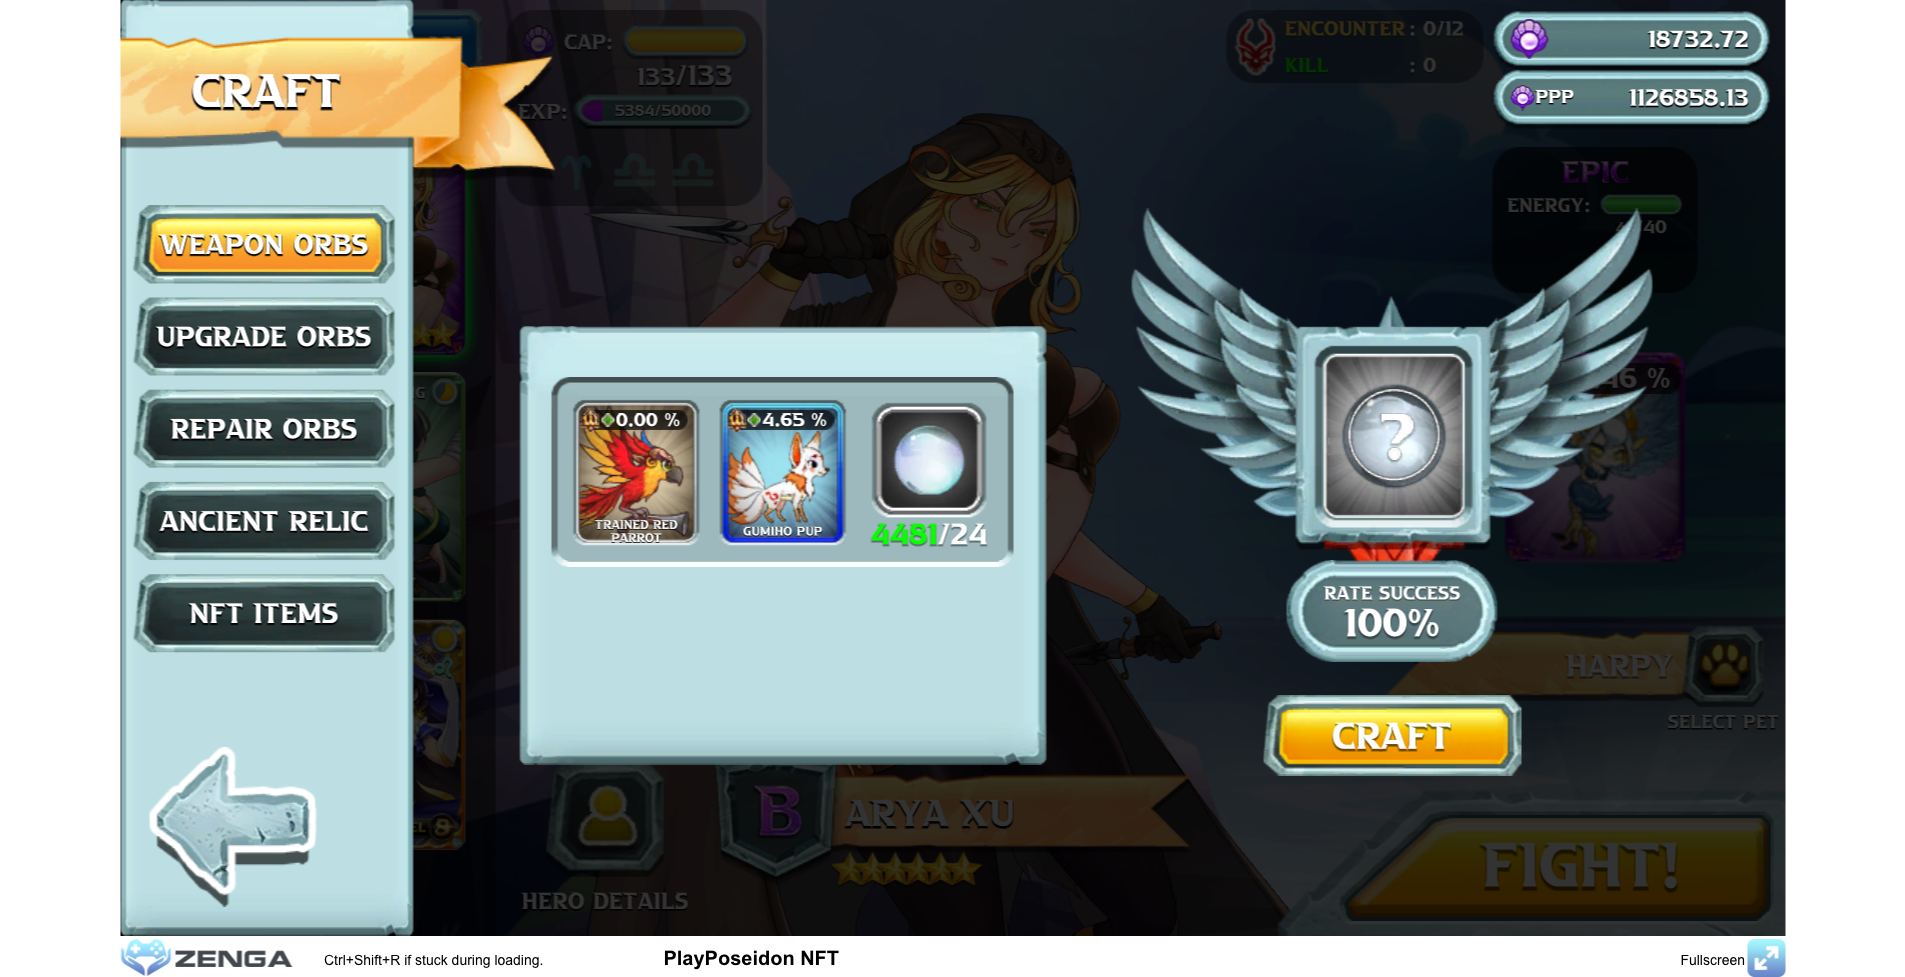
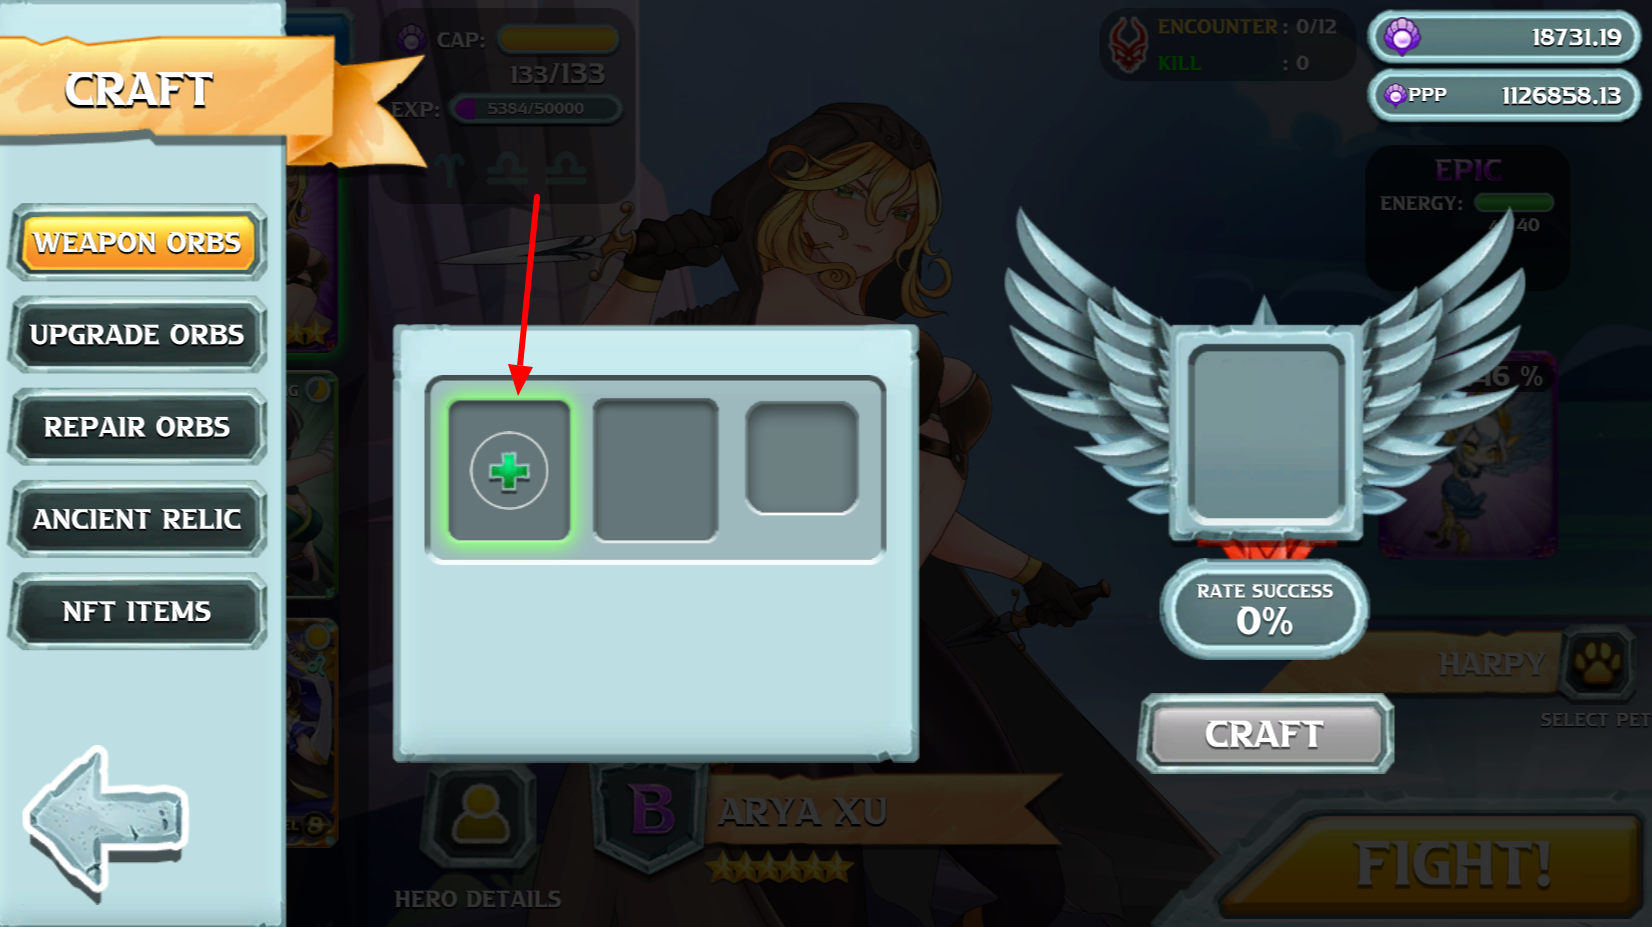
GitBook: [#268] No subject

diff --git a/gameplay-guide/nft-weapon-orbs/orb-upgrade-and-level.md b/gameplay-guide/nft-weapon-orbs/orb-upgrade-and-level.md
@@ -1,0 +1,61 @@
+# 🆙 Orb Upgrade and Level
+
+### 1. NFT Weapon Orb Level
+
+A Weapon Orb after mint start at LV **+0** and can be upgraded to higher LV to further increase it power.
+
+| Weapon Orb Rarity Level                          | Max Level can be upgraded to | Hero Level required to bind |
+| ------------------------------------------------ | ---------------------------- | --------------------------- |
+| **Common**                                       | +6                           | 4                           |
+| <mark style="color:blue;">**Rare**</mark>        | +9                           | 4                           |
+| <mark style="color:purple;">**Epic**</mark>      | +12                          | 4                           |
+| <mark style="color:yellow;">**Legendary**</mark> | +15                          | 7                           |
+| <mark style="color:red;">**Mythical**</mark>     | +18                          | ?                           |
+
+When upgrade to higher LV the Bonus Damage when Active of Orb will be increased and at specific LV the orb will acquired a passive bonus following this table:
+
+| Weapon Orb Level | Bonus Damage when Active | Passive bonuses                                                                                                     | Max Success Chance to next LV                             |
+| ---------------- | ------------------------ | ------------------------------------------------------------------------------------------------------------------- | --------------------------------------------------------- |
+| **Orb+0**        | +0                       |                                                                                                                     | 96%                                                       |
+| **Orb+1**        | +5                       |                                                                                                                     | 96%, Orb LV will be reset to +0 if failed                 |
+| **Orb+2**        | +10                      |                                                                                                                     | 96%, Orb LV will be reset to +0 if failed                 |
+| **Orb+3**        | +15                      | Headshot Critical Attack **LV1**                                                                                    | 96%, Orb LV will be reset to +0 if failed                 |
+| **Orb+4**        | +20                      | Headshot Critical Attack LV1                                                                                        | 96%, Orb LV will be reset to +0 if failed                 |
+| **Orb+5**        | +25                      | Headshot Critical Attack LV1                                                                                        | 96%, Orb LV will be reset to +0 if failed                 |
+| **Orb+6**        | +30                      | <p>Headshot Critical Attack <strong>LV2</strong><br><strong></strong>Gas Consume Reduction <strong>LV1</strong></p> | 96%, Orb LV will be reset to +0 if failed                 |
+| **Orb+7**        | +40                      | <p>Headshot Critical Attack LV2<br><strong></strong>Gas Consume Reduction LV1</p>                                   | 84%, Orb LV will be reset to +0 if failed                 |
+| **Orb+8**        | +50                      | <p>Headshot Critical Attack LV2<br><strong></strong>Gas Consume Reduction LV1</p>                                   | 72%, Orb LV will be reset to +0 if failed                 |
+| **Orb+9**        | +60                      | <p>Headshot Critical Attack <strong>LV3</strong><br><strong></strong>Gas Consume Reduction <strong>LV2</strong></p> | 60%, Orb will be burned if failed unless have Chaos Charm |
+| **Orb+10**       | +75                      | <p>Headshot Critical Attack LV3<br><strong></strong>Gas Consume Reduction LV2</p>                                   | 54%, Orb will be burned if failed unless have Chaos Charm |
+| **Orb+11**       | +90                      | <p>Headshot Critical Attack LV3<br><strong></strong>Gas Consume Reduction LV2</p>                                   | 48%, Orb will be burned if failed unless have Chaos Charm |
+| **Orb+12**       | +110                     | <p>Headshot Critical Attack <strong>LV4</strong><br><strong></strong>Gas Consume Reduction <strong>LV3</strong></p> | 42%, Orb will be burned if failed unless have Chaos Charm |
+| **Orb+13**       | +130                     | <p>Headshot Critical Attack LV4<br><strong></strong>Gas Consume Reduction LV3</p>                                   | 36%, Orb will be burned if failed unless have Chaos Charm |
+| **Orb+14**       | +150                     | <p>Headshot Critical Attack LV4<br><strong></strong>Gas Consume Reduction LV3</p>                                   | 30%, Orb will be burned if failed unless have Chaos Charm |
+| **Orb+15**       | +175                     | <p>Headshot Critical Attack <strong>LV5</strong><br><strong></strong>Gas Consume Reduction <strong>LV4</strong></p> | 27%, Orb will be burned if failed unless have Chaos Charm |
+
+To upgrade an Orb to next Level you will need to prepare some material:
+
+From **Orb+1** to **Orb+4, Orb+5**: \
+\+Lesser Gem of any type for Neutral Orb\
+\+Lesser Gem of the same type for Elemental Orb:\
+Orb of Wind use Diamond,  Orb of Earth use Emerald, Orb of Fire use Ruby, Orb of Water use Sapphire
+
+From **Orb+4, Orb+5 to Orb+9:**\
+****+Greater Gem of any type for Neutral Orb\
+\+Greater Gem of the same type for Elemental Orb\
+\+Similar to Hero Upgrade, upgrade to Orb+7 +8 +9 will cost you two Upgrade Scroll of the same LV&#x20;
+
+From **Orb+9, Orb+10** and above:\
+\+Chaos Gem and two Upgrade Scroll of the same LV
+
+You will need to select one type of Gem and a quantity to be used for the upgrading process, the more number of Gem used the higher the success chance of the upgrade.
+
+### 2. Normal Upgrade vs Quick Upgrade
+
+Similar to Hero, Weapon Orbs also have 2 mechanisms to upgrade it to next LV. The first one is Normal Upgrade and the second one is Quick Upgrade.
+
+**Normal Upgrade** will require the player to farm the EXP bar of the Orb to full before the upgrade. EXP of the Orb can be gained by using it (activate Orb), the more you used during battle the faster the Orb EXP bar will be filled. Once it is full you can then proceed to Normal Upgrade the Weapon Orb to next LV. Upgrading the Orb this way will only cost a tiny amount of **PPP** as upgrade fee regardless of Orb LV (flat fee).
+
+**Quick Upgrade** doesn't require the player to farm the EXP bar of the Orb to full in-order to upgrade it. How-ever the amount of **PPP** upgrade fee for Quick Upgrade is much higher compare to Normal Upgrade. And it is scaled up with the current level of the Orb. This allow player with less time but big budget can using **PPP** (both in-game or on-chain can be used to pay this fee) to quickly upgrade the Orb to the wanted LV.
+
+Both type of Upgrade have the same Gem requirement, Max Success Chance and cost two Upgrade Scroll per LV starting from LV **Orb+7**

diff --git a/gameplay-guide/nft-weapon-orbs/orb-attributes-and-buff.md b/gameplay-guide/nft-weapon-orbs/orb-attributes-and-buff.md
@@ -1,0 +1,39 @@
+# 🔮 Orb Attributes and Buff
+
+### 1. Orb Rarity Level
+
+The higher the Rarity Level of the Orb the better the Orb can boost the power of Hero when equip:
+
+| Weapon Orb Rarity Level                          | Magitek Gas (Max Mana) | Number of Class       | Avg % Base Damage Bonus buff |
+| ------------------------------------------------ | ---------------------- | --------------------- | ---------------------------- |
+| **Common**                                       | 1500                   | 4 Neutral Class Only  | 0-10%                        |
+| <mark style="color:blue;">**Rare**</mark>        | 1500-3999              | 4 Neutral + 4 Element | 5-20%                        |
+| <mark style="color:purple;">**Epic**</mark>      | 4000-5999              | 4 Neutral + 4 Element | 15-30%                       |
+| <mark style="color:yellow;">**Legendary**</mark> | 6000-7999              | 4 Neutral + 4 Element | 25-45%                       |
+| <mark style="color:red;">**Mythical**</mark>     | 8000-9999              | ?                     | 35-55%                       |
+
+{% hint style="info" %}
+**Magitek Gas** (max Mana): Weapon Orb has a gas bar which will be used when the Orb is activated. When Weapon Orb ran out of gas, it became inactive. Gas is slowly refueled by converting Pet exhaust energy of Pet magical attack into magitek gas. (Higher rarity pet will allow it to recover gas faster)&#x20;
+
+**% Base Damage Buff:** this buff work similar to Pet Attribute bonus buff but only affect Hero base damage. This buff will always be in effect regardless of the Orb is in active or inactive state. When mint the NFT Orb this % buff will be exactly equal the sum % buff of the 2 NFT Pets combine
+{% endhint %}
+
+| Orb Rarity                                       | Active Gas Consume/s | Bonus Damage when Active | Max Durability | % Bonus PPP Reward |
+| ------------------------------------------------ | -------------------- | ------------------------ | -------------- | ------------------ |
+| **Common**                                       | 300                  | 0                        | 20\*           | 2%                 |
+| <mark style="color:blue;">**Rare**</mark>        | 350                  | 5                        | 40             | 5%                 |
+| <mark style="color:purple;">**Epic**</mark>      | 450                  | 15                       | 80             | 10%                |
+| <mark style="color:yellow;">**Legendary**</mark> | 600                  | 30                       | 120            | 20%                |
+| <mark style="color:red;">**Mythical**</mark>     | 800                  | 60                       | 200            | 35%                |
+
+{% hint style="info" %}
+**Active Gas Consume/s:** This is the amount of Magitek Gas (Mana) that get deducted every seconds when you active the Orb. If the Hero equipped more than 1 Orb, These attribute will be sum together: **Magitek Gas, Active Gas Consumes/s, Bonus Damage when Active, % Bonus PPP Reward**
+
+**Bonus Damage when Active**: This amount increases Hero base damage when the orb is Activated. This bonus base damage can be further increased by upgrading Orb to higher Level(see Orb Upgrade). This amount will not be increased by any Attribute Bonus Buff
+
+**Durability**: For every match this Weapon Orb is used. An amount of durability points will be deducted. 1 point of durability is deducted when you farm 10% of Hero daily farm-cap. That means if you fully farm your hero daily farm-cap, 10 points will be deducted. After that if you continue to use the Hero (equipped with Weapon Orb) your Orb durability will not be deducted since there is no farm-cap left. Once the Orb durability point becomes 0, it can still be used but the Magitek Gas (max Mana) of this orb will be zero. You can still Activate Orbs if the hero is equipped with at least 1 orb still have Durability. And the orb will not give any bonus PPP reward until the player repairs it. Also all passive bonuses coming from Orb will not be in effect, Bonus Damage when Active will becomes zero, leaving only the % Base Damage Bonus Buff. Orb can be repaired by using a Repair Kit, each Kit can repair 10 Durability Points.&#x20;
+
+**\*Common Orb** can only be repaired two times. After the second repair, the Orb will not be able to repair any more.
+
+**% Bonus PPP Reward**: Give bonus reward (**PPP**) based on Hero Daily Farm-cap. This bonus will be reduced by 1% every time the Weapon Orb is repaired. When it reaches 0% it will no longer give a bonus PPP reward. At 0% bonus PPP reward, Orb can still be repaired to be used though (except for Common Orb)
+{% endhint %}

diff --git a/gameplay-guide/nft-weapon-orbs/craft-weapon-orb-mint-nft.md b/gameplay-guide/nft-weapon-orbs/craft-weapon-orb-mint-nft.md
@@ -4,13 +4,16 @@
 
 To open the Crafting UI you need to click the Top Left Menu button and Select the \[CRAFT] button
 
-![](<../../.gitbook/assets/image (4).png>)![](<../../.gitbook/assets/image (11).png>)
+![](<../../.gitbook/assets/image (3).png>)![](<../../.gitbook/assets/image (6).png>)
 
 In order to craft a NFT Weapon Orb, you will be required to give up 2 NFT Pets, these NFT will be burned during the minting process of the orb. When you click the green button on the first square a NFT Pet selection will appear. You will then select 2 NFT Pet to be burned. On the right hand side it will display the Rarity of the Weapon Orb you are going to get after mint and the success chance. In-fact the Rarity of the Orb will always match with the Rarity of the first Pet. If the success chance is low, the mint may failed and resulting to mint the Orb with one Rarity lower than the expected one. If the success chance become 0% you will not be able to craft the Orb.
 
-![](<../../.gitbook/assets/image (5).png>)![](<../../.gitbook/assets/image (6).png>)![](<../../.gitbook/assets/image (7).png>)![](<../../.gitbook/assets/image (10).png>)
+![](<../../.gitbook/assets/image (8).png>)![](../../.gitbook/assets/image.png)![](<../../.gitbook/assets/image (9).png>)![](<../../.gitbook/assets/image (7).png>)
 
-To understand how the success chance is calculated check this below table:
+If you have enough material then the \[CRAFT] yellow button will be active, you can then click it an a MetaMask prompt will show up. Please click \[Confirm] to pay the gas fee + mint cost and proceed with the minting process:
+
+![](<../../.gitbook/assets/image (4).png>)\
+To understand how the success chance is calculated, check this below table:
 
 | NFT Pet 1                                        | NFT Pet 2 with sum % buff                                                                                                                                          | Orb Rarity Level and % chance                                                                                                              |
 | ------------------------------------------------ | ------------------------------------------------------------------------------------------------------------------------------------------------------------------ | ------------------------------------------------------------------------------------------------------------------------------------------ |

diff --git a/gameplay-guide/nft-weapon-orbs/README.md b/gameplay-guide/nft-weapon-orbs/README.md
@@ -8,7 +8,7 @@ NFT Weapon Orb is one type of NFT Equipment in which these NFT will be bound to 
 
 The NFT Weapon Orb feature can be found in the Hero Detail View, in this view you will see the 3 slot on the left side of your Hero NFT. When you click one of the slot you an Orb Inventory will appear and list all Orbs that is not bound to any Hero and Orbs that is already bound to the current Hero. Orbs which is bound to a different Hero will not be listed in this Orb Inventory.
 
-![](<../../.gitbook/assets/image (8).png>)![](<../../.gitbook/assets/image (9).png>)
+![](<../../.gitbook/assets/image (2).png>)![](<../../.gitbook/assets/image (5).png>)
 
 You can start select one of the Orb and click Equip. If the Orb is not yet bind to this Hero, it will first be bound to the Hero (binding is done on-chain hence some time it may be failed) then equip to the Hero at the selected slot that you have click before. Each Hero have 3 slots to equip 3 different Orbs (Orb with a same name can't be equipped together). Each slot will be unlocked at a different Hero Level:\
 \+Slot 1 at Hero LV4\

diff --git a/playposeidon/earn-mechanism/become-referrer-refer-friend.md b/playposeidon/earn-mechanism/become-referrer-refer-friend.md
@@ -12,7 +12,7 @@ In the latest patch the team has introducing a referral system. Which allow play
 
 Any player in the game can become a Referrer by go to the Fortuna feature screen and click the "CREATE REFERRER CODE" button. By inviting friend to PlayPoseidon and instruct them to key in your REFERRER CODE in the Fortuna feature screen, you both will receive an initial referral reward. Further more, when your friend make any purchase in-game Store using _on-chain_ **PPP**, you as **Referrer** will receive 5% of the amount as Referrer bonus and may also receive some item reward as well.
 
-![FORTUNA](<../../.gitbook/assets/image (1).png>)
+![FORTUNA](<../../.gitbook/assets/image (1) (2).png>)
 
 Player can enter the REFERRER CODE that they got in the above input box then click \[ OK ] to add the friend as his/her Referrer. Once successfully added both player will receive the Initial Reward below. Note that: the game have additional check to prevent malicious people to exploit the referral system.
 

diff --git a/playposeidon/earn-mechanism/gacha-items.md b/playposeidon/earn-mechanism/gacha-items.md
@@ -114,7 +114,7 @@ This treasure will give a lot more number of items when open (check the second S
 
 ### 4.1 Lucky Spin Prizes List
 
-The prizes list is also available in-game to see when you click the \[ ! ] yellow button in the Fortuna feature screen:  ![](<../../.gitbook/assets/image (1).png>) click (SPIN) and wait for the prize
+The prizes list is also available in-game to see when you click the \[ ! ] yellow button in the Fortuna feature screen:  ![](<../../.gitbook/assets/image (1) (2).png>) click (SPIN) and wait for the prize
 
 | Prizes                                                              | Chance to Receive | Note                    |
 | ------------------------------------------------------------------- | ----------------- | ----------------------- |

diff --git a/gameplay-guide/nft-heroes/curse-of-poseidon.md b/gameplay-guide/nft-heroes/curse-of-poseidon.md
@@ -20,7 +20,7 @@ This curse will be reset every-time the NFT Hero is upgraded to next Level eithe
 
 ### 2.a Curse Effective Date and Efficiency
 
-![](<../../.gitbook/assets/image (2).png>)![](<../../.gitbook/assets/image (3).png>)\
+![](<../../.gitbook/assets/image (2) (2).png>)![](<../../.gitbook/assets/image (3) (1).png>)\
 
 
 On the NFT Hero card, if the Hero is not affected by the _Curse of Poseidon_ yet then there will be a date display on the card (_Yudon_'s Card). This is the Curse Effective Date. Starting from this date, Hero _Efficiency_ will be reduced and the % _Efficiency_ is displayed on the NFT card in-place of the Curse Effective Date (_Mu Qing_'s Card).

diff --git a/SUMMARY.md b/SUMMARY.md
@@ -45,6 +45,8 @@
   * [❄ Pet Passive Skills](gameplay-guide/nft-pets/pet-passive-skills.md)
 * [🔮   NFT Weapon Orbs](gameplay-guide/nft-weapon-orbs/README.md)
   * [🔥 Craft Weapon Orb (mint NFT)](gameplay-guide/nft-weapon-orbs/craft-weapon-orb-mint-nft.md)
+  * [🔮 Orb Attributes and Buff](gameplay-guide/nft-weapon-orbs/orb-attributes-and-buff.md)
+  * [🆙 Orb Upgrade and Level](gameplay-guide/nft-weapon-orbs/orb-upgrade-and-level.md)
 * [🎒 NFT Items](gameplay-guide/nft-items/README.md)
   * [🗿 Totem (Summon Hero)](gameplay-guide/nft-items/totem-summon-hero.md)
   * [🥚 Egg (Spawn Pets)](gameplay-guide/nft-items/egg-spawn-pets.md)

diff --git a/gameplay-guide/import-and-transfer-nft.md b/gameplay-guide/import-and-transfer-nft.md
@@ -10,7 +10,7 @@ description: >-
 
 ![](<../.gitbook/assets/image (2) (1).png>)
 
-![](../.gitbook/assets/image.png)
+![](<../.gitbook/assets/image (1).png>)
 
 ![](<../.gitbook/assets/image (1) (1).png>)
 
